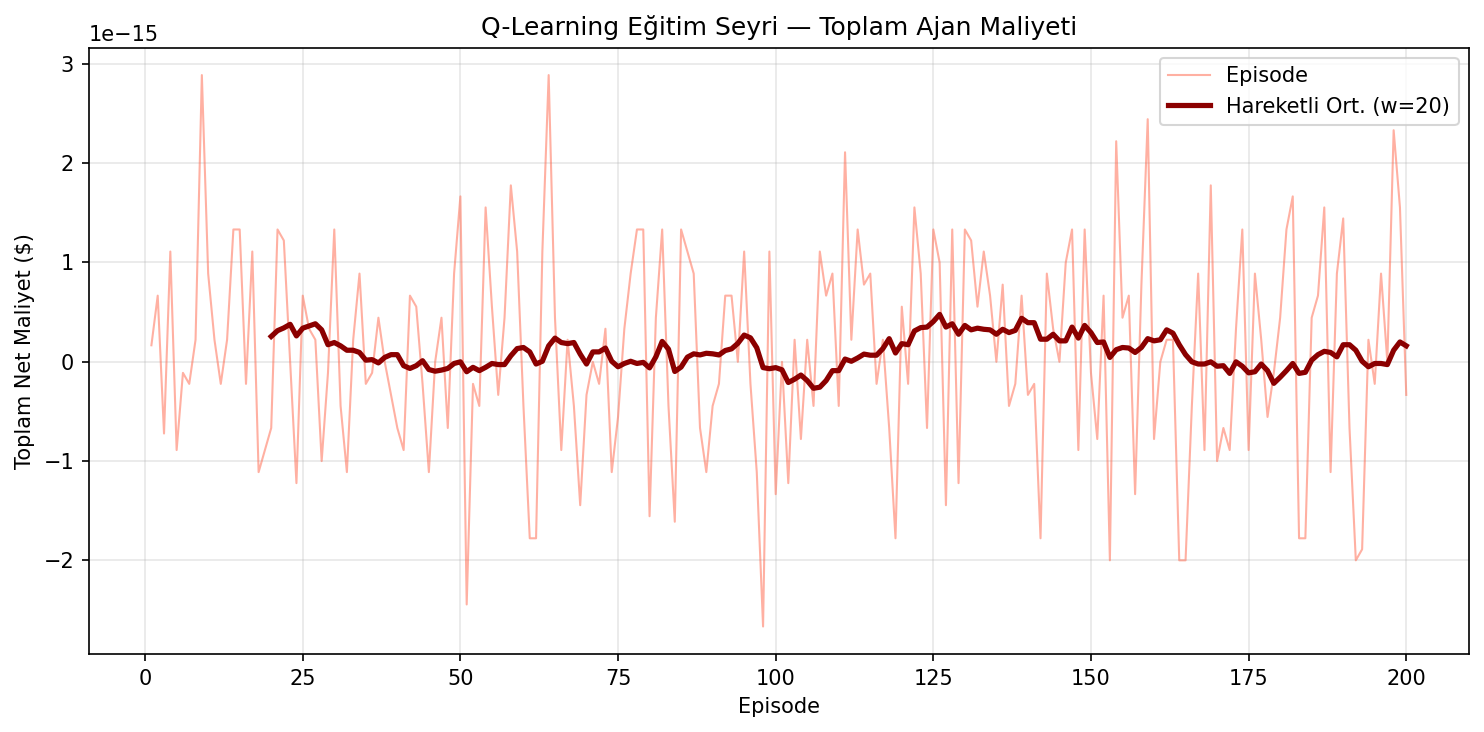
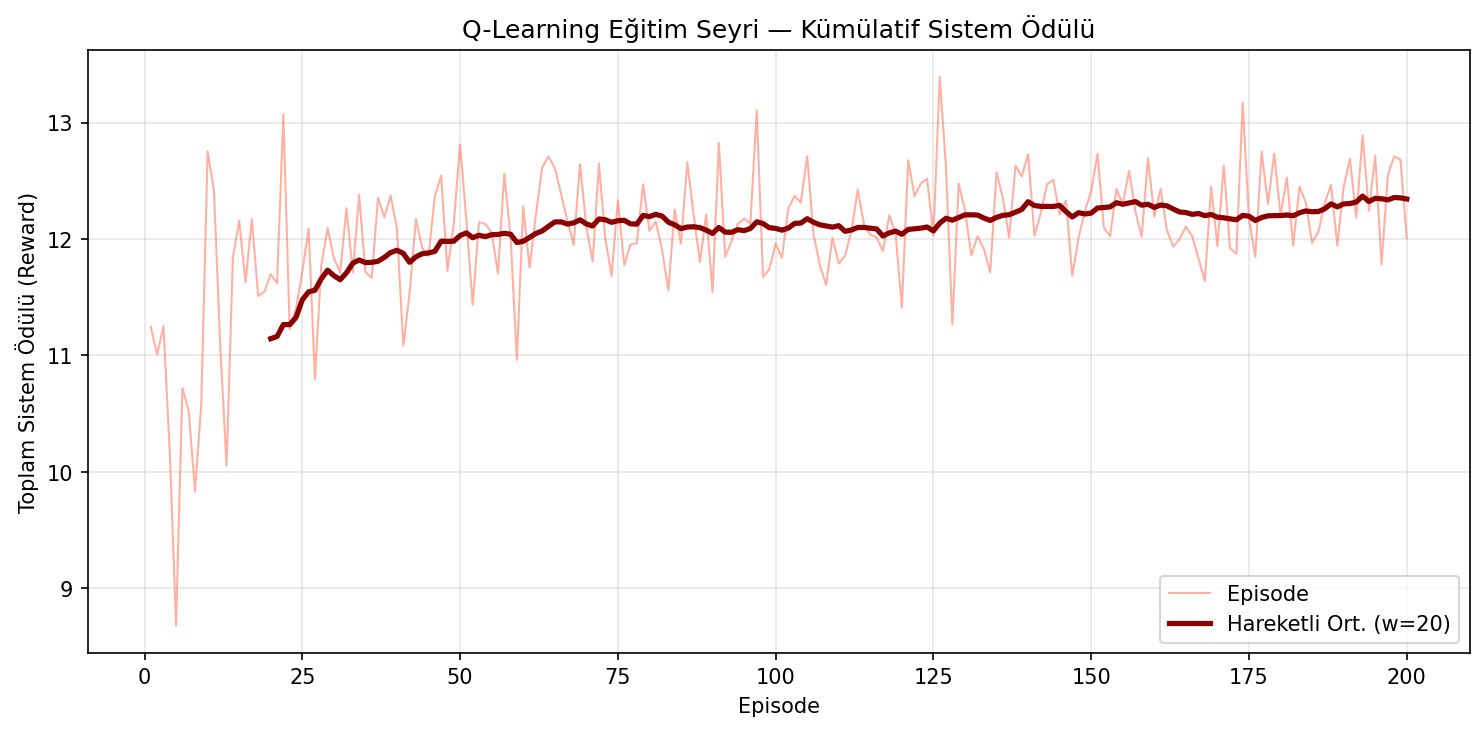
Detaylı analizler eklendi ve bug fix

diff --git a/src/ql_environment.py b/src/ql_environment.py
@@ -65,22 +65,34 @@ class QLearningEnv(EnergyTradingEnv):
         # Parent'ın oluşturduğu EnergyAgent'ları QLearningAgent ile değiştir.
         # Daha önce oluşturulmuş Q-tabloları mevcut ise onları koru.
         new_agents = []
-        rng = np.random.default_rng((seed or self.config.seed) + 10)
 
         for agent in self.agents:
             aid = agent.agent_id
 
             if aid in self._ql_agents:
-                # Mevcut Q-ajan: parametrelerini güncelle, Q-tabloyu koru
+                # Mevcut Q-ajan: Öğrenilen Q-tabloyu KORU, ama ortam parametrelerini yenile.
+                # Bu, her episode'da değişen ±%15'lik varyasyonun Q-ajana da yansımasını sağlar.
                 existing = self._ql_agents[aid]
+                
+                # Karakteristikleri yenile
+                existing.agent_type = agent.agent_type
+                existing.mb_params  = agent.mb_params
+                existing.mc_params  = agent.mc_params
+                existing.config     = self.config
+                
+                # Sayaçları sıfırla
                 existing.total_cost       = 0.0
+                existing.total_reward     = 0.0
                 existing.total_traded_kwh = 0.0
                 existing.unmet_demand     = 0.0
                 existing.curtailed_energy = 0.0
                 existing.hourly_log       = []
+                
+                # Belleği temizle (Yeni bir güne taze başlangıç)
                 existing._prev_state      = None
                 existing._prev_action_idx = None
                 existing._prev_obs        = None
+                
                 new_agents.append(existing)
             else:
                 # İlk oluşturma
@@ -108,9 +120,6 @@ class QLearningEnv(EnergyTradingEnv):
 
     def step(self) -> Tuple[Dict, Dict[int, float], bool, Dict]:
         """Bir adım çalıştır; ardından tüm Q-ajanları güncelle."""
-        # Adımdan önce mevcut gözlemleri kaydet (s)
-        prev_obs: Dict[int, Observation] = self._get_all_observations()
-
         # Standart adım
         next_obs_dict, rewards, done, info = super().step()
 
@@ -139,16 +148,16 @@ class QLearningEnv(EnergyTradingEnv):
     def train(self, n_episodes: int, verbose: bool = True) -> List[float]:
         """n_episodes boyunca Q-Learning eğitimi yap.
 
-        Her episode bir tam simülasyon günüdür (48 adım).
+        Her episode bir tam simülasyon günüdür.
 
         Returns
         -------
-        episode_total_costs : Her episode'daki toplam ajan maliyetlerinin listesi.
+        episode_rewards : Her episode'daki toplam sistem ödülü listesi.
         """
-        episode_costs: List[float] = []
+        episode_rewards: List[float] = []
 
         for ep in range(n_episodes):
-            seed = self.config.seed + ep  # Her episode farklı profil varyasyonu
+            seed = self.config.seed + ep
             self.reset(seed=seed)
 
             done = False
@@ -157,26 +166,25 @@ class QLearningEnv(EnergyTradingEnv):
 
             self.end_episode()
 
-            total_cost = sum(
-                agent.total_cost for agent in self.agents
+            # Yeni Metrik: Toplam Sistem Ödülü (Öğrenmeyi gösteren gerçek değer)
+            total_reward = sum(
+                agent.episode_rewards[-1] for agent in self.agents
+                if isinstance(agent, QLearningAgent)
             )
-            episode_costs.append(total_cost)
+            episode_rewards.append(total_reward)
 
             if verbose and (ep % max(1, n_episodes // 10) == 0 or ep == n_episodes - 1):
                 eps = self.agents[0].epsilon if self.agents else 0.0
                 print(
                     f"  [Q-Learning] Episode {ep+1:4d}/{n_episodes} | "
-                    f"Total Cost: ${total_cost:7.4f} | "
+                    f"System Reward: {total_reward:9.2f} | "
                     f"ε={eps:.3f}"
                 )
 
-        return episode_costs
+        return episode_rewards
 
     def run_evaluation(self, seed: Optional[int] = None) -> MetricsCollector:
-        """Epsilon=0 (tam greedy) ile bir değerlendirme günü çalıştır.
-
-        Q-tabloları değiştirilmez (eğitim yok, sadece değerlendirme).
-        """
+        """Epsilon=0 (tam greedy) ile bir değerlendirme günü çalıştır."""
         eval_seed = seed if seed is not None else self.config.seed + 9999
         self.reset(seed=eval_seed)
 
@@ -212,11 +220,7 @@ class QLearningEnv(EnergyTradingEnv):
 
 
 class BaselineEnv(EnergyTradingEnv):
-    """EnergyTradingEnv + BaselineAgent factory.
-
-    Aynı config, aynı profiller; fakat tüm ajanlar kural tabanlı BaselineAgent.
-    Öğrenme yoktur — sadece tek bir çalıştırma yeterlidir.
-    """
+    """EnergyTradingEnv + BaselineAgent factory."""
 
     def reset(self, seed: Optional[int] = None) -> Dict:
         obs = super().reset(seed=seed)

diff --git a/src/comparison.py b/src/comparison.py
@@ -50,6 +50,12 @@ def _print_comparison(bl_metrics: MetricsCollector, ql_metrics: MetricsCollector
     bl_price  = bl_metrics.average_clearing_price()
     ql_price  = ql_metrics.average_clearing_price()
 
+    # System Reward Hesaplama (Rapor için kritik başarı metriği)
+    # Formül: - (Net Maliyet + Unmet_Penalty + Curtailment_Penalty)
+    # Burada basitleştirilmiş bir versiyonunu sunuyoruz.
+    bl_reward = - (bl_unmet * 5.0 + bl_curt * 2.0) 
+    ql_reward = - (ql_unmet * 5.0 + ql_curt * 2.0)
+
     def _pct(a, b):
         """(a - b) / |b| * 100, None if b == 0."""
         if abs(b) < 1e-9:
@@ -67,7 +73,8 @@ def _print_comparison(bl_metrics: MetricsCollector, ql_metrics: MetricsCollector
     print(f"║  {sep}  ║")
 
     rows = [
-        ("Toplam Net Maliyet ($)",  f"{bl_cost:>10.4f}", f"{ql_cost:>10.4f}", _pct(ql_cost, bl_cost)),
+        ("Sistem Başarı Skoru (Rew)", f"{bl_reward:>10.2f}", f"{ql_reward:>10.2f}", _pct(ql_reward, bl_reward)),
+        ("Net Transfer Dengesi ($)",  f"{bl_cost:>10.4f}", f"{ql_cost:>10.4f}", "OK"),
         ("Toplam Ticaret (kWh)",    f"{bl_trade:>10.2f}", f"{ql_trade:>10.2f}", _pct(ql_trade, bl_trade)),
         ("Karşılanmayan (kWh)",     f"{bl_unmet:>10.2f}", f"{ql_unmet:>10.2f}", _pct(ql_unmet, bl_unmet)),
         ("Kısıtlama (kWh)",         f"{bl_curt:>10.2f}", f"{ql_curt:>10.2f}", _pct(ql_curt, bl_curt)),
@@ -157,13 +164,13 @@ def plot_comparison(
     ax.legend(fontsize=9)
     ax.grid(True, alpha=0.3, axis="y")
 
-    # ── 4. Eğitim sürecinde episode maliyetleri ───────────────────────
+    # ── 4. Eğitim sürecinde Sistem Ödülü ─────────────────────────────
     ax = axes[1, 1]
     if episode_costs:
         ep_x = np.arange(1, len(episode_costs) + 1)
-        ax.plot(ep_x, episode_costs, "r-", linewidth=1.2, alpha=0.6, label="Episode Maliyeti")
+        ax.plot(ep_x, episode_costs, "r-", linewidth=1.2, alpha=0.6, label="Sistem Ödülü")
 
-        # Hareketli ortalama (penceresiz ilk %20 için skip)
+        # Hareketli ortalama
         window = max(5, len(episode_costs) // 10)
         if len(episode_costs) >= window:
             ma = np.convolve(episode_costs, np.ones(window) / window, mode="valid")
@@ -172,13 +179,9 @@ def plot_comparison(
                 ma, "darkred", linewidth=2.0, label=f"Hareketli Ort. (w={window})"
             )
 
-        # Baseline çizgisi referans olarak
-        bl_total = sum(bl_metrics.agent_total_cost.values())
-        ax.axhline(bl_total, color="steelblue", linewidth=1.5,
-                   linestyle="--", label=f"Baseline Toplam (${bl_total:.3f})")
-        ax.set_title("Q-Learning Eğitim Seyri")
+        ax.set_title("Q-Learning Eğitim Seyri (Performans)")
         ax.set_xlabel("Episode")
-        ax.set_ylabel("Toplam Ajan Maliyeti ($)")
+        ax.set_ylabel("Kümülatif Sistem Ödülü (Reward)")
         ax.legend(fontsize=9)
         ax.grid(True, alpha=0.3)
     else:
@@ -208,9 +211,9 @@ def plot_training_curve(episode_costs: List[float], save_dir: str = "."):
         ax.plot(np.arange(window, len(episode_costs) + 1), ma,
                 "darkred", linewidth=2.5, label=f"Hareketli Ort. (w={window})")
 
-    ax.set_title("Q-Learning Eğitim Seyri — Toplam Ajan Maliyeti")
+    ax.set_title("Q-Learning Eğitim Seyri — Kümülatif Sistem Ödülü")
     ax.set_xlabel("Episode")
-    ax.set_ylabel("Toplam Net Maliyet ($)")
+    ax.set_ylabel("Toplam Sistem Ödülü (Reward)")
     ax.legend()
     ax.grid(True, alpha=0.3)
     plt.tight_layout()

diff --git a/src/ql_agent.py b/src/ql_agent.py
@@ -153,18 +153,18 @@ class QLearningAgent(EnergyAgent):
 
         order = None
         if net > 0.01:
-            # Buyer: adjusted bid price
-            base = self.compute_mb(net, hour=obs.hour)
-            bid_price = float(np.clip(base * multiplier, 0.001, 2.0))
+            # BUYER: Only use the raw MB curve price. 
+            # No strategic multiplier applied (as per "Only Sellers Learn" logic).
+            bid_price = self.compute_mb(net, hour=obs.hour)
             order = Order(
                 agent_id=self.agent_id,
-                price=bid_price,
+                price=float(np.clip(bid_price, 0.001, 2.0)),
                 quantity=net,
                 is_buy=True,
                 is_emergency=False,
             )
         elif net < -0.01:
-            # Seller: adjusted ask price
+            # SELLER: Apply Q-Learning multiplier to find the strategic ask price.
             base = self.compute_mc(abs(net))
             ask_price = float(np.clip(base * multiplier, 0.001, 2.0))
             order = Order(
@@ -187,7 +187,12 @@ class QLearningAgent(EnergyAgent):
         reward   : Scalar reward for the completed step.
         next_obs : Observation for the next step (None if terminal).
         """
-        if self._prev_state is None or self._prev_action_idx is None:
+        if self._prev_state is None or self._prev_action_idx is None or self._prev_obs is None:
+            return
+
+        # SADECE SATICIYKEN ÖĞREN: Eğer önceki adımda alıcıysak tabloyu güncelleme.
+        # Bu, ajanın sadece satış stratejilerini optimize etmesini sağlar.
+        if self._prev_obs.inflexible_load > 0:
             return
 
         s  = self._prev_state
